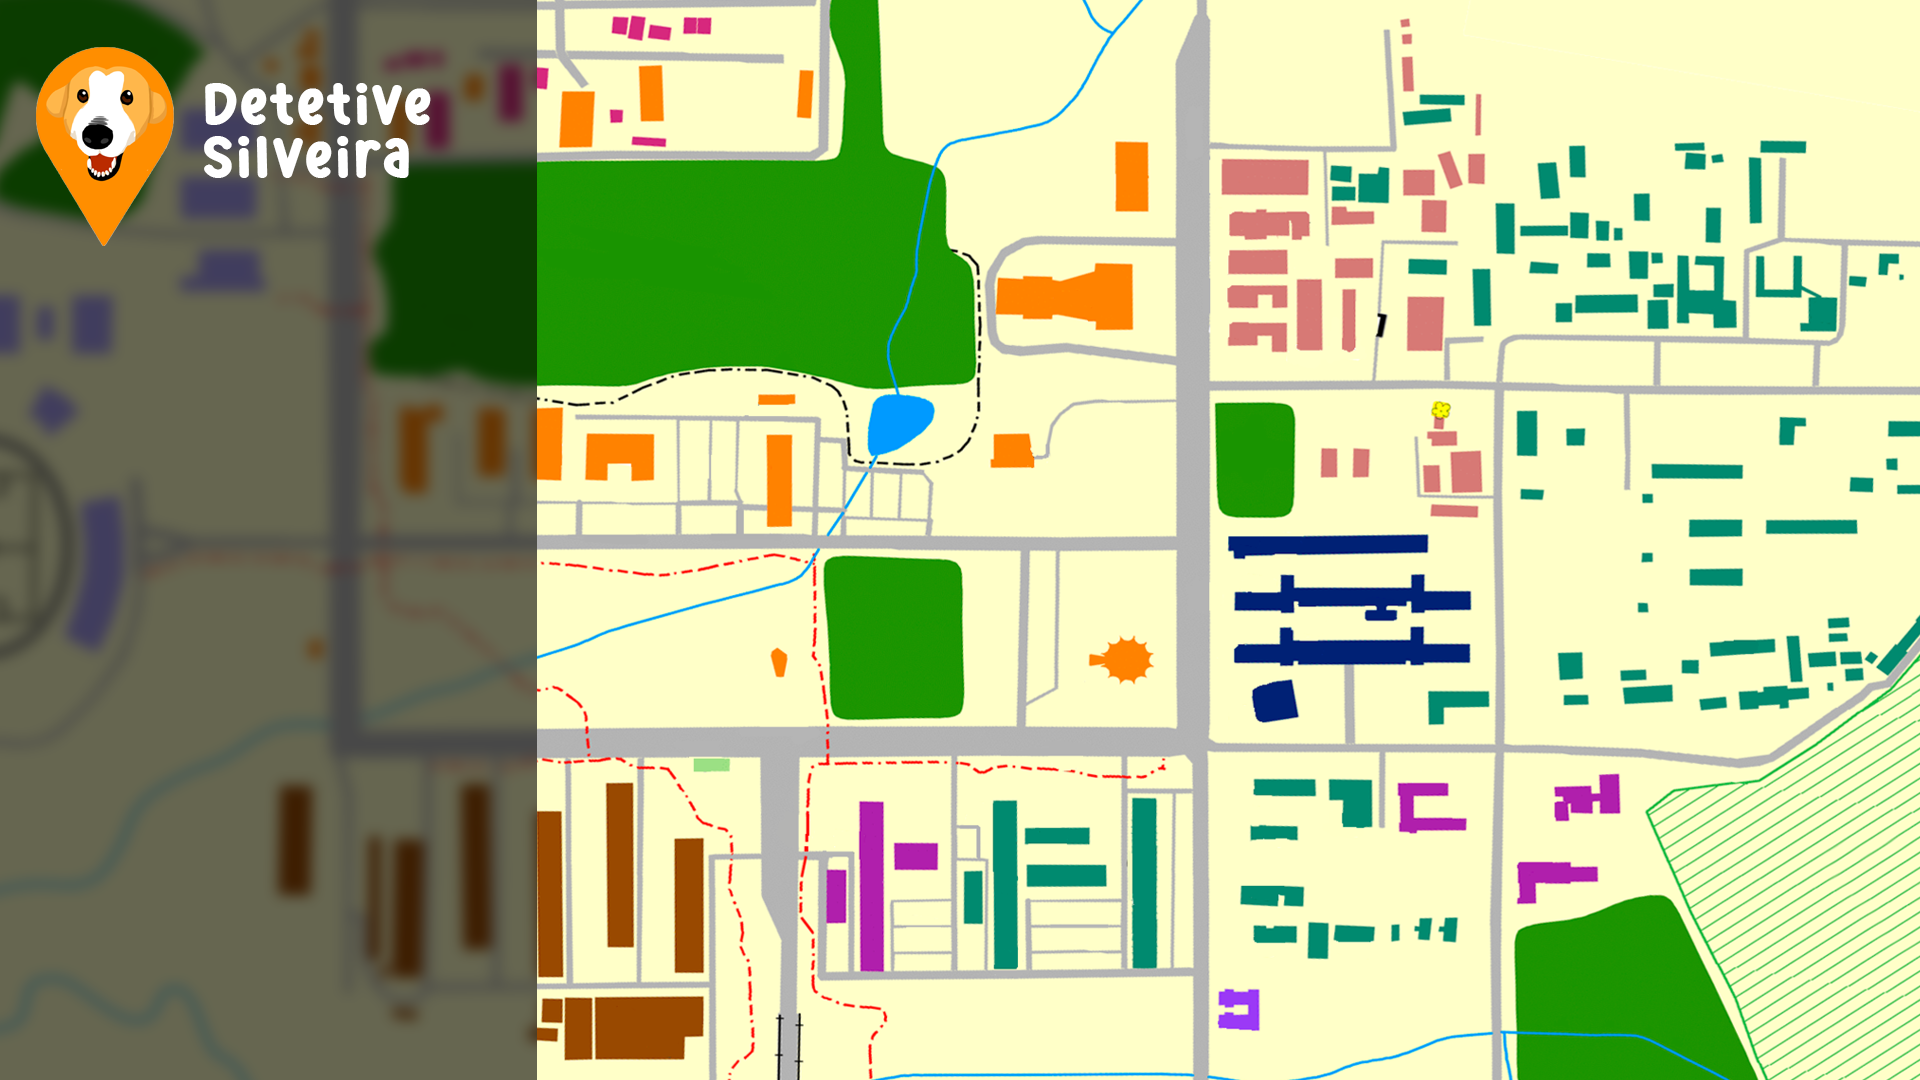
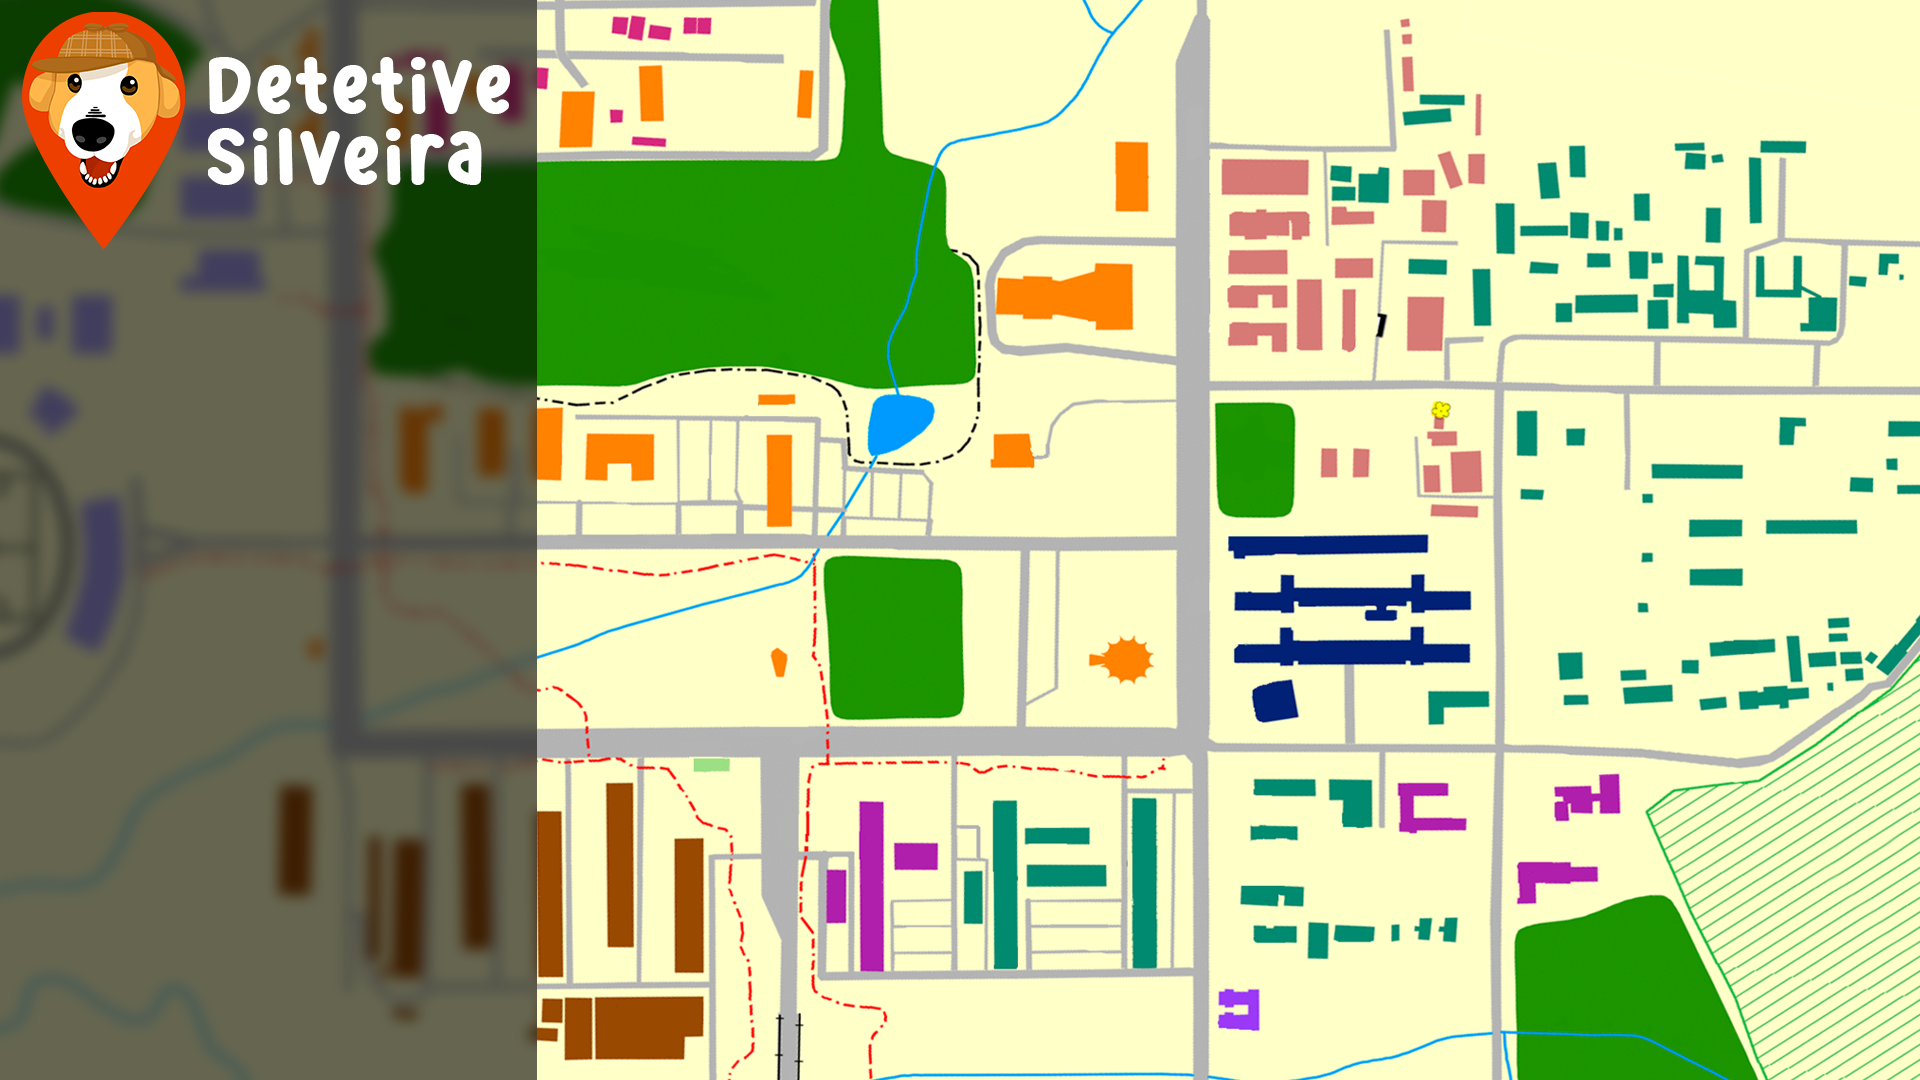
Icones Atualizados, mais bonito.

Changed region(s): [[0.0, 0.0, 0.2812, 0.2444]]

diff --git a/core/src/com/paraproj/game/GameScreen.java b/core/src/com/paraproj/game/GameScreen.java
@@ -55,7 +55,7 @@ public class GameScreen implements Screen {
     public GameScreen(final Silveira game){
         this.game = game;
         batch = new SpriteBatch();
-        OrthographicCamera camera = new OrthographicCamera();
+        final OrthographicCamera camera = new OrthographicCamera();
         camera.setToOrtho(false);
         screenPort = new ScreenViewport();
         viewport = new ExtendViewport(WORLD_WIDTH, WORLD_HEIGHT);
@@ -107,9 +107,11 @@ public class GameScreen implements Screen {
         botaoSeta.addListener(new ClickListener() {
             @Override
             public void clicked(InputEvent event, float x, float y) {
+                OrthographicCamera cam = (OrthographicCamera) viewport.getCamera();
                 System.out.println("Clicado.");
-                if(mapaRevelado)
+                if (mapaRevelado)
                     mapaRevelado = false;
+                cam.zoom = 1f;
                 Gdx.input.setInputProcessor(stage);
             }
         });
@@ -174,7 +176,7 @@ public class GameScreen implements Screen {
         mapSprite.setSize(WORLD_WIDTH, WORLD_HEIGHT);
 
         lastPositionSprite = new Sprite(new Texture("16x16.png"));
-        lastPositionSprite.setSize(1f, 1f);
+        //lastPositionSprite.setSize(1, 50);
         lastPositionSprite.setOriginCenter();
         lastPositionSprite.setPosition(-5f, -5f);
 
@@ -225,9 +227,10 @@ public class GameScreen implements Screen {
         viewport.apply();
         batch.setProjectionMatrix(viewport.getCamera().combined);
         batch.begin();
+
         if (mapaRevelado) {
             handleInput();
-            lastPositionSprite.setBounds(lastPositionSprite.getX(), lastPositionSprite.getY(), cam.zoom, cam.zoom);
+            lastPositionSprite.setBounds(lastPositionSprite.getX(), lastPositionSprite.getY(), cam.zoom, cam.zoom * 2.9f);
             lastPositionSprite.setOriginCenter();
 
             if (worldCoordinates != null) {
@@ -235,6 +238,7 @@ public class GameScreen implements Screen {
             }
             batch.draw(atual, 0,0, 27, WORLD_HEIGHT);
             mapSprite.draw(batch);
+            //batch.draw(lastPositionSprite, 0, 0, 1 , 2);
             lastPositionSprite.draw(batch);
             batch.end();
             cena.act(Gdx.graphics.getDeltaTime());
